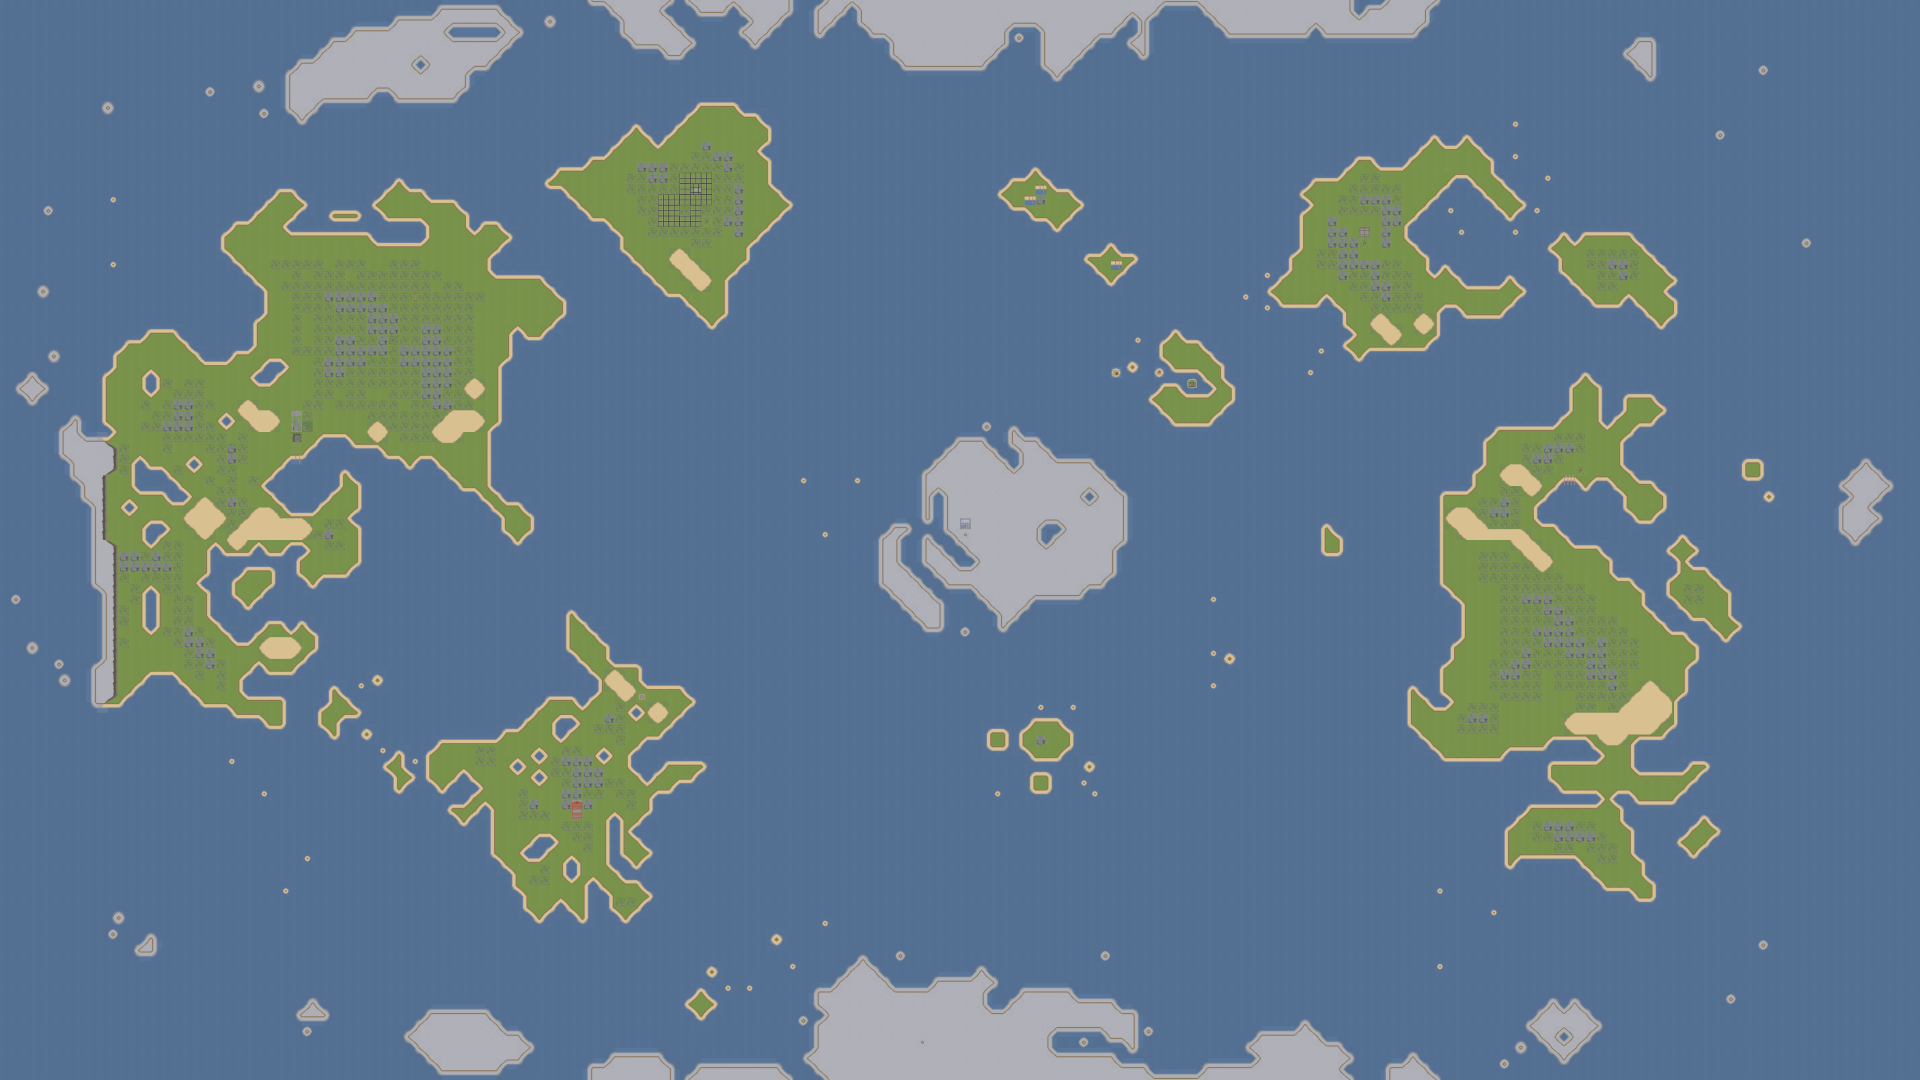
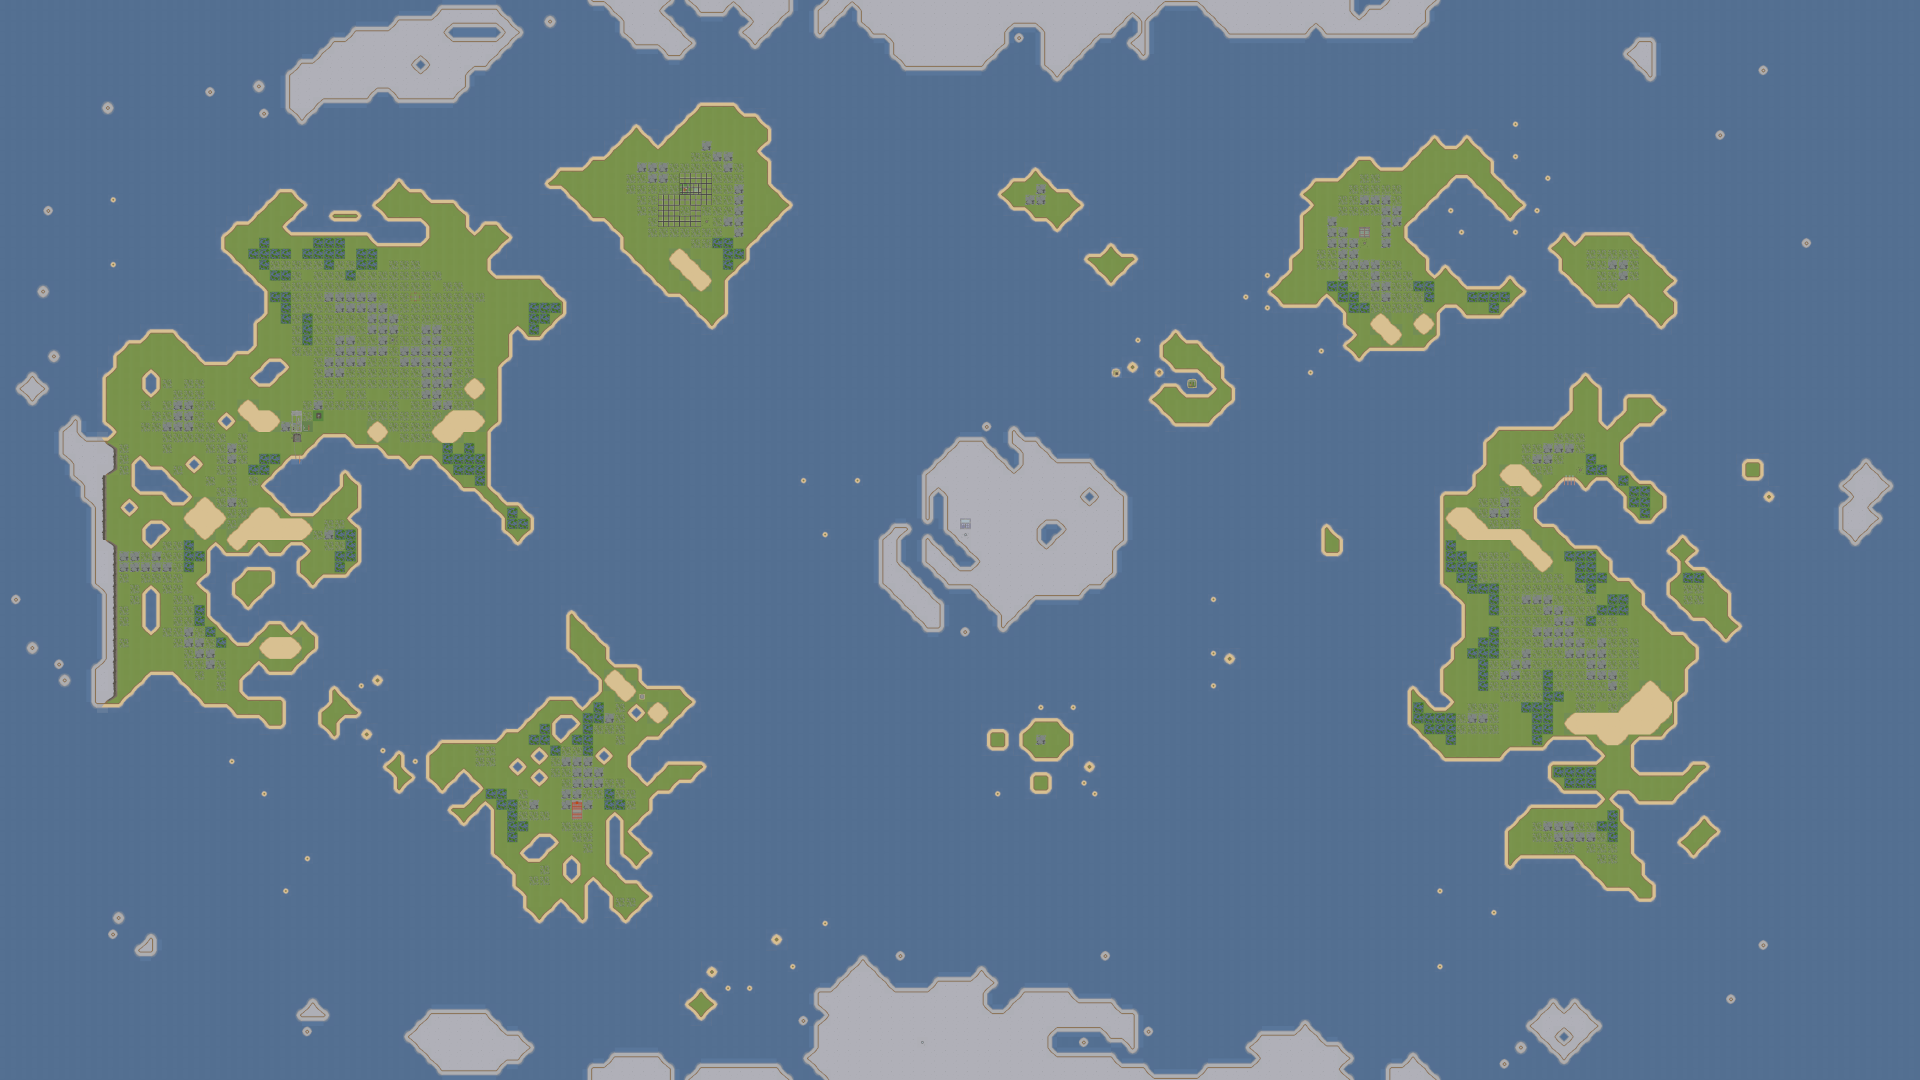
bug fixes

diff --git a/sprites.py b/sprites.py
@@ -688,7 +688,7 @@ class Vehicle(pg.sprite.Sprite):
             self.driver.last_weapon = self.driver.current_weapon
             self.driver.inventory['weapons'].append(self.data['weapons'])
             self.driver.equipped['weapons'] = self.driver.current_weapon = self.data['weapons']
-        if self.data['weapons2']:
+        if self.data['weapons2'] or self.cat == 'tank':
             self.driver.last_weapon2 = self.driver.current_weapon2
             self.driver.inventory['weapons'].append(self.data['weapons2'])
             self.driver.equipped['weapons2'] = self.driver.current_weapon2 = self.data['weapons2']
@@ -1750,8 +1750,12 @@ class Player(pg.sprite.Sprite):
                         self.last_shot = now
                         self.fire_bullets()
             else:
+                self.game.hud_ammo1 = ""
+                self.game.hud_ammo2 = ""
                 self.pre_melee()
         else:
+            self.game.hud_ammo1 = ""
+            self.game.hud_ammo2 = ""
             self.pre_melee()
 
     def dual_shoot(self, auto = False):
@@ -1830,6 +1834,17 @@ class Player(pg.sprite.Sprite):
             self.mag2 -= 1
             if self.mag2 < 0:
                 self.mag2 = 0
+        self.update_hud_amo()
+
+    def update_hud_amo(self):
+        if self.ammo_cap1 + self.mag1 != 0:
+            self.game.hud_ammo1 = "Right Ammo: " + str(self.mag1) + '/' + str(self.ammo_cap1)
+        else:
+            self.game.hud_ammo1 = ""
+        if self.ammo_cap2 + self.mag2 != 0:
+            self.game.hud_ammo2 = "Left Ammo: " + str(self.mag2) + '/' + str(self.ammo_cap2)
+        else:
+            self.game.hud_ammo2 = ""
 
     def out_of_ammo(self):
         now = pg.time.get_ticks()
@@ -1997,6 +2012,7 @@ class Player(pg.sprite.Sprite):
                         self.mag2 = self.ammo_cap2 = 0
                     self.is_reloading = False
                     self.last_shot = pg.time.get_ticks()
+        self.update_hud_amo()
 
     def empty_mags(self):
         # Empties previous weapon mags back into ammo inventory:
@@ -2016,6 +2032,7 @@ class Player(pg.sprite.Sprite):
         if self.equipped['weapons2'] and WEAPONS[self.equipped['weapons2']]['gun']:
                 self.ammo[WEAPONS[self.equipped['weapons2']]['type']] += self.mag2
                 self.mag2 = 0
+        self.update_hud_amo()
 
     def play_weapon_sound(self, default = None):
         if default == None:

diff --git a/main.py b/main.py
@@ -2543,7 +2543,7 @@ class Game:
                                     if mob.aggression in ['awd', 'sap', 'fup']:
                                         mob.offensive = True
                                         mob.provoked = True
-                                        mob.gets_hit(bullet.damage, bullet.knockback, bullet.rot)
+                                    mob.gets_hit(bullet.damage, bullet.knockback, bullet.rot)
                                     self.hud_mobhp = mob.stats['health'] / mob.stats['max health']
                                     self.show_mobhp = True
                                     self.last_mobhp_update = pg.time.get_ticks()
@@ -2791,9 +2791,9 @@ class Game:
         if self.player.hungers:
             draw_player_stats(self.screen, 10, 100, self.hud_hunger, BROWN)
             self.draw_text("HGR {:.0f}".format(self.player.stats['hunger']), self.hud_font, 20, WHITE, 120, 100, align="topleft")
-        if self.hud_ammo1:
+        if self.hud_ammo1 != '':
             self.draw_text(self.hud_ammo1, self.hud_font, 20, WHITE, 50, self.screen_height - 100, align="topleft")
-        if self.hud_ammo2:
+        if self.hud_ammo2 != '':
             self.draw_text(self.hud_ammo2, self.hud_font, 20, WHITE, 50, self.screen_height - 50, align="topleft")
         if self.paused:
             self.screen.blit(self.dim_screen, (0, 0))

diff --git a/npcs.py b/npcs.py
@@ -395,6 +395,7 @@ ICEBEACH_ANIMALS = ['ice golem', 'bluefish', 'hawk']
 DESERT_ANIMALS = ['red wyvern', 'demon', 'giant ant', 'snake', 'garden lizard', 'spider', 'hawk']
 ANT_TUNNEL_ANIMALS = ['giant ant', 'rabbit']
 CAVE_ANIMALS = ['giant ant', 'rabbit', 'snake', 'spider', 'skeleton', 'immortui']
+SWAMP_ANIMALS = ['sfix', 'snake', 'brown bird', 'garden lizard']
 
 # Created using the NPC designer
 PEOPLE['sandy'] = {'name': 'Sandy', 'dead': False, 'protected': True, 'health': 150, 'touch damage': False, 'damage': 30, 'knockback': 10, 'walk speed': (80, 120), 'run speed': (280, 320), 'detect radius': 400, 'avoid radius': 100, 'aggression': 'awp', 'armed': False, 'dual wield': False, 'collide': ['walls', 'lava'], 'gender': 'male', 'race': 'shaktele', 'colors':  {'hair': COLOR_PALETTE[23], 'skin': SHAKTELE_SKIN_TONES[13]}, 'dialogue': 'random VILLAGER_DLG', 'store': None, 'inventory': {'weapons': ['steel dagger'], 'weapons2': [None], 'tops': ['pink dress top'], 'bottoms': ['steel chainmail leggings F'], 'hats': ['grey baseball hat'], 'hair': ['dreadlocks'], 'shoes': ['black combat'], 'gloves': [None], 'items': ['brick'], 'magic': ['fireball'], 'gold': 10}, 'animations': {None}, 'guarded': False}

diff --git a/settings.py b/settings.py
@@ -195,6 +195,7 @@ FOREST_MAPS = []
 GRASSLAND_MAPS = []
 TUNDRA_MAPS = []
 DESERT_MAPS = []
+SWAMP_MAPS = []
 for file in os.listdir(map_folder):
     name = file.replace('.tmx', '')
     if file.startswith("MOUNTAIN"):
@@ -207,7 +208,9 @@ for file in os.listdir(map_folder):
         TUNDRA_MAPS.append(name)
     elif file.startswith("DESERT"):
         DESERT_MAPS.append(name)
-RANDOM_MAP_TILES = {'53': 'MOUNTAIN_MAPS', '27': 'FOREST_MAPS', '11': 'GRASSLAND_MAPS'}
+    elif file.startswith("SWAMP"):
+        SWAMP_MAPS.append(name)
+RANDOM_MAP_TILES = {'53': 'MOUNTAIN_MAPS', '27': 'FOREST_MAPS', '11': 'GRASSLAND_MAPS', '48': 'SWAMP_MAPS'}
 
 # Player body image settings
 gender_list = ['male', 'female']
@@ -464,6 +467,7 @@ ZOMBIELAND_MUSIC = 'DarkWinds.ogg'
 TUNDRA_MUSIC = 'Tales and Tidings.ogg'
 MOUNTAIN_MUSIC = 'Cloudforest_Awakening.ogg'
 DESERT_MUSIC = 'Eternal Renewal.ogg'
+SWAMP_MUSIC = 'Light from the Shadows.ogg'
 
 # Sounds
 LOCK_PICKING_SOUNDS = ['pick_lock1.ogg', 'pick_lock2.ogg', 'pick_lock3.ogg', 'pick_lock4.ogg']

diff --git a/weapons.py b/weapons.py
@@ -858,7 +858,7 @@ WEAPONS['enchanted elven dagger'] = {'type': 'dagger','gun': False, 'value': 100
                       'bullet_size': 'lg2',
                       'bullet_count': 1,
                       'walk': 'WALK',
-                      'brightness': 100, 'light mask': 0,
+                      'brightness': 300, 'light mask': 0,
                       'melee animation': 'PUNCH',
                       'grip': 'CP_SWORD_GRIP',
                       'image': 0,
